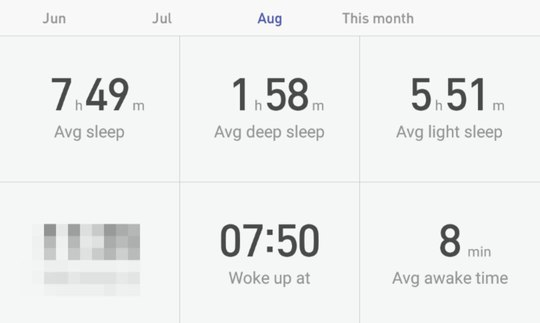
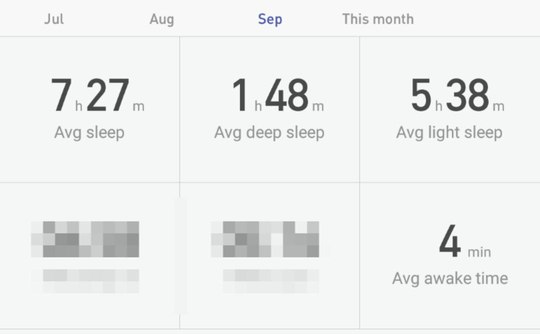
Add a my stats for September

diff --git a/content/post/stats-sep-2017.md b/content/post/stats-sep-2017.md
@@ -1,11 +1,10 @@
 +++
 title = "Stats for sep, 2017"
-date = "2017-09-07"
+date = "2017-10-31"
 tags = ["stats","personal","english"]
-draft = true
 +++
 
-It's almost the end of October and I could not manage to post my stats
+It's already the end of October and I could not manage to post my stats
 from September but I have a good reason for that (which you will read
 about in the next month 😉).
 
@@ -48,8 +47,9 @@ I did not take so much time for articles reading this month, so the numbers
 increased less than they use to. It was also affected by the time it took to
 generate the numbers last month.
 
-Another correlation with this one may be related to the fact that I'm only
-reading my Feedly once a week instead of every day. :)
+Another correlation with this one may be related to the fact that I'm
+only reading my Feedly once a week instead of every day, that helps a
+lot to not add many articles to Pocket. :)
 
 ### Coding
 
@@ -71,8 +71,8 @@ Nothing new to editors. I still use Vim, but Emacs is the leader by far.
 
 ### Speaking
 
-+ [Desconstruindo a web: Entendendo uma requisição](https://www.flickr.com/photos/136449291@N08/36751193061/in/album-72157684637490782/) at [Interdevops](https://interdevops.com.br)
-+ **Uma requisição web do começo ao fim** at **Tech-hour Catho**.
++ [Fazendo um snake game com Python 3 e PyGame para se divertir](https://www.meetup.com/Grupy-SP/events/243214891/) at [GruPy-SP](https://www.meetup.com/Grupy-SP/)
++ [Lightning talk: Brincando com API's e jq](https://youtu.be/EXwT8gM-YfU?t=12823) at [Guru-SP](https://gurusp.org)
 
 This was an ordinary month regarding presentations, but still following what I
 had defined for my goal:
@@ -80,7 +80,7 @@ had defined for my goal:
 [![Burn down chart for my presentations](/images/stats/2017/sep/presentations.png "Burn down chart for my presentations")](/images/stats/2017/sep/presentations.png "")
 
 The goal was reached this month! I will try to keep the same rhythm and maybe
-speak in different countries. :)
+speak in different countries in October. :)
 
 ### Completed tasks
 
@@ -88,10 +88,7 @@ This is the amount of tasks completed on [Todoist](https://todoist.com).
 
 [![Amount of tasks completed this month](/images/stats/2017/sep/tasks-completed.png "Amount of tasks completed this month")](/images/stats/2017/sep/tasks-completed.png)
 
-**534 tasks** completed this month (**20 less** than last month).
-
-I still have plans to create a better way to extract data from my Todoist
-account, just need some spare time. Not so easy these days.
+**365 tasks** completed this month (**169 less** than last month 😞).
 
 ### Podcasts
 
@@ -100,9 +97,9 @@ Here is my
 
 [![Amount of time spent listening to Podcasts this month](/images/stats/2017/sep/podcasts.jpg "Amount of time spent listening to Podcasts this month")](/images/stats/2017/sep/podcasts.jpg)
 
-**1 day and 16 hours** of podcast time, almost 1 day less than last month. This
-is a trend I've been following, when I read (or listen to) more books I consume
-less podcasts. :)
+**1 day and 16 hours** of podcast time, almost 1 day more than last month. As I
+said in the previous month, when I listen to less audiobooks I usually have more
+time spent on podcasts. 😄
 
 I decided to keep a list of the Podcasts and their times as well.
 
@@ -120,41 +117,34 @@ Here are the data from my time tracking software, [Toggl](https://toggl.com):
 
 [![Hours working using Toggl](/images/stats/2017/sep/toggl-time-working.png "Hours working using Toggl")](/images/stats/2017/sep/toggl-time-working.png "")
 
-The above chart is just for my freelance and full-time job. It's really hard to
-work as a freelancer now, my full-time job is taking all my energy, so most part
-of it is dedicated to it.
+The above chart is just for my freelance and full-time job. Currently it's just
+my full-time job, because there are some stuff preventing me to work on my
+freelance.
 
 Here is the difference between shallow and deep work regarding my full-time job:
 
 [![Deep vs Shallow work](/images/stats/2017/sep/toggl-time-working-deep-shallow.png "Deep vs Shallow work")](/images/stats/2017/sep/toggl-time-working-deep-shallow.png "")
 
-It was less deep work than last month (13 hours less) but it's good to know I'm
+It was less deep work than last month (10 hours less) but it's good to know I'm
 still spending around 1/3 of my time in Deep Work state. I'm also tracking time
-in meetings, it was almost one day in meetings this month. I did not track every
-single meeting because it would be too much work, but it was basically related
-to:
-
-+ 1-1 meeting
-+ Weekly status (30 min each)
-+ Meeting with other members of the team
-+ Useful meetings with other teams and thirty parties
-
-I hate useless meetings but all of these were useful and needed. :)
+in meetings and it was half of the time spend last month. 😁
 
 There is another chart for my personal projects:
 
 [![Hours working on personal projects using Toggl](/images/stats/2017/sep/toggl-time-personal-projects.png "Hours working on personal projects using Toggl")](/images/stats/2017/sep/toggl-time-personal-projects.png "")
 
-Even less than last month, it makes me sad :(.
+A little bit more personal projects but they are all related to my
+presentations. :)
 
 Here is my data from [RescueTime](https://www.rescuetime.com/ref/1403570):
 
 [![Goal of productive hours on RescueTime](/images/stats/2017/sep/rescuetime-productivetime.png "Goal of productive hours on RescueTime")](/images/stats/2017/sep/rescuetime-productivetime.png "")
 
-Unfortunately I had a problem with Rescue time this month and my data
-is not being collected properly. 😢 But there is not just bad news for
-this case! I now have a partnership with rescuetime and have access to
-a premium account. Thanks rescuetime team! 😁
+Unfortunately I had a problem with Rescue time this month (and probably next
+month too, we're debugging it) and my data is not being collected properly. 😢
+
+But there is not just bad news for this case! I now have a partnership with
+rescuetime and have access to a premium account. Thanks rescuetime team! 😁
 
 ### Physical activity
 
@@ -162,9 +152,8 @@ I'm using my Mi band data to calculate my average steps:
 
 [![Activity data for this month by Mi-Fit app](/images/stats/2017/sep/activity.jpg "Activity data for this month by Mi-Fit app")](/images/stats/2017/sep/activity.jpg "")
 
-According to this data, I can conclude that I had a daily average of **6.6k**
-steps (207/31). It was almost 50k less steps than last month. I was not feeling
-good some days so I had to skip the gym, maybe this is the cause of that.
+According to this data, I can conclude that I had a daily average of **8.6k**
+steps (258/30). It was almost 50k more steps than last month, which is really good.
 
 And these are my steps each day:
 
@@ -174,44 +163,25 @@ My max distance was **9.2km**:
 
 [![Travelled distance this month](/images/stats/2017/sep/physical-activity-distance.png "Travelled distance this month")](/images/stats/2017/sep/physical-activity-distance.png "")
 
-My weight is stable:
-
-[![My weight for this month](/images/stats/2017/sep/physical-activity-weight.png "My weight for this month")](/images/stats/2017/sep/physical-activity-weight.png "")
-
-And here is some data on my current weight:
-
-[![Data on my weight for this month](/images/stats/2017/sep/physical-activity-weight-data.jpg "Data on my weight for this month")](/images/stats/2017/sep/physical-activity-weight-data.jpg "")
-
-MiFit app interface for sleep data changed a little bit but here is my data for
-this month:
+Here is my sleep data for this month:
 
 [![Amount of sleep for this month](/images/stats/2017/sep/sleep.jpg "Amount of sleep for this month")](/images/stats/2017/sep/sleep.jpg "")
 
-A bit more average sleeping (**7h32m** for the last month) and more deep
-sleeping for this month \o/ (last month was **1h32**). It's probably not related
-(at least not in particular) to the change of bands (Mi band -> Mi band 2),
-because I'm using it for two months now and my deep sleeping improved for the
-second month.
-
-Here is my stats comparing to the whole Mi band user base:
-
-[![Stats about my sleep data](/images/stats/2017/sep/sleep_stats.jpg "Stats about my sleep data")](/images/stats/2017/sep/sleep_stats.jpg "")
-
-Not so good, I think. 😅
-
+Less average sleeping (**7h49m** for the last month) and also less deep
+sleeping for this month (last month was **1h48**).
 
 ### TV Shows
 
-According to [tvshowtime](https://www.tvshowtime.com) I watched 24 episodes this month.
+According to [tvshowtime](https://www.tvshowtime.com) I watched 50 episodes this
+month! It's a personal record but I'm not sure if this is good or bad.
 
 [![TV shows watched this month according to tvshowtime](/images/stats/2017/sep/tvshows.jpg "TV shows watched this month according to tvshowtime")](/images/stats/2017/sep/tvshows.jpg "")
 
-It's a combination of **Westworld** (recommended, BTW), **The defenders**, **The
-crown**, and **Game of Thrones**.
+It's a combination of **The defenders**, **Marvel agents of shield (season 4)**
+and **Orphan Black (seasons 1-3)**.
 
-Note that I had some delay to get this screenshot and there are some numbers from
-September already (blue arrow). With that said, I think I spent around **24
-hours** watching TV this month.
+Unfortunately I got the results too late and I can't calculate how many hours I
+spent watching TV this month. 😢
 
 ### Words written and errors
 
@@ -222,19 +192,20 @@ while.
 
 Here are my stats for this month:
 
-+ **69493** words written (**51018** last month)
-+ **1881** corrections made (**1272** last month)
-+ **13925** unique words (**10332** last month)
++ **73969** words written (**69493** last month)
++ **1826** corrections made (**1881** last month)
++ **17139** unique words (**13925** last month)
 
-The numbers keep rising because all of my work conversations are in English,
-that's nice. I had **more than 20% more words written** , around **30% more unique
-words**, but also **more than 34% more corrections made**.
+The numbers keep rising because all of my work conversations are in English and
+that's nice. I had **more than 6% more words written** , around **19% more
+unique words** and **3% less corrections made** (!!).
+
+It was great to see less corrections made this month, it seems I'm improving! 😄
 
 ### Locations
 
-This time I have one additional city in the list because I traveled to bebedouro
-to speak at [interdevops](https://interdevops.com.br). It also helped to
-increase the list of places visited by **9**.
+For some reason, there is 1 city less than next month. I really don't know how
+Google calculates that. 😞 But visited 11 places this month.
 
 [![General view of my locations data](/images/stats/2017/sep/location-general.png "General view of my locations data")](/images/stats/2017/sep/location-general.png "")
 
@@ -242,9 +213,7 @@ Here is the time spend in vehicles:
 
 [![Location time and distance](/images/stats/2017/sep/location-time-distance.png "Location time and distance")](/images/stats/2017/sep/location-time-distance.png "")
 
-I know I spent 9 hours traveling to speak at interdevops and 3 hours to speak at Catho, so 12 from these 14 hours are related to my presentations. Pretty good. Just want to say it again: **Remote work FTW**!
-
-And as always, the funny metric:
+Just 10 hours spent in transport, that's great. :)
 
 [![Kms to the moon](/images/stats/2017/sep/location-moon.png "Kms to the moon")](/images/stats/2017/sep/location-moon.png "")
 
@@ -257,19 +226,18 @@ My expenses for this month:
 [![Expenses by category this month](/images/stats/2017/sep/expenses.jpg "Expenses by category this month")](/images/stats/2017/sep/expenses.jpg "")
 
 This chart **represents all my income for this month**. The number is not wrong,
-I did not receive any money this
-month. [The problem I described last month](/post/stats-jul-2017) and
-the [month before it](/post/stats-jun-2017/) is not solved yet, for this reason,
-there's no money coming yet. :(
+I did not receive any money this month. The problem I described in
+the
+[last](/post/stats-jul-2017) [three](/post/stats-jun-2017/) [months](/post/stats-aug-2017) still
+persists, for this reason, there's no money coming yet. :(
 
-My expenses are normal again but I'm not paying anything, my wife is paying all
-of our bills until my situation gets back to normal. I'm kinda stressed with
-this situation but it's great to have someone to rely on when things like these
-happen. ❤
+So... the situation is the same... My wife is paying all of our bills until my
+situation gets back to normal. I'm stressed with this situation but it's great
+to have someone to rely on when things like these happen. ❤
 
-Well, thanks to the volatile economy in Brazil, my total savings increased by
-**1.9%** and I did not add any money to it (because I'm not receiving
-anything...). Now I reached **74.23%** of my goal.
+Unfortunately I did not checked all my finances in the beginning of the month,
+so I can't tell how it was. I will keep the same value as the last month, so I
+still reached **74.23%** of my goal.
 
 
 ### Time to write this blog post
@@ -277,19 +245,16 @@ anything...). Now I reached **74.23%** of my goal.
 Some people are asking me about how much time it take to collect all
 the data and write the blog post, so I decided to add this metric.
 
-**It took 3 hours and 52 minutes to write this post**
+**It took 3 hours and 16 minutes to write this post**
 
-1 hour more than last month, I need to improve it for next month.
+I wrote part of it during an airplane travel so its approximate.
 
 
 ### Conclusion
 
-Excluding the fact of not being able to receive my payment because of
-bureaucracy that has nothing to do with what I do, this month was good. I'm
-integrated to the team and getting used to the code and the team way of work.
+Again... excluding the fact of not being able to receive my payment because of
+bureaucracy that has nothing to do with what I do, this month was good. I had to
+rush to get everything setup for my travel in the next month but it was cool.
 
-It's really nice to work on products you love and also see people using it and
-giving nice feedback. I was missing that for a long time. :)
-
-The next step is try to improve my productivity for the next month. Let's see
-how it goes.
+I'm already aware that the next month will be really different because I will
+take 1 week off and will work from different locations. Let's see how it goes.
